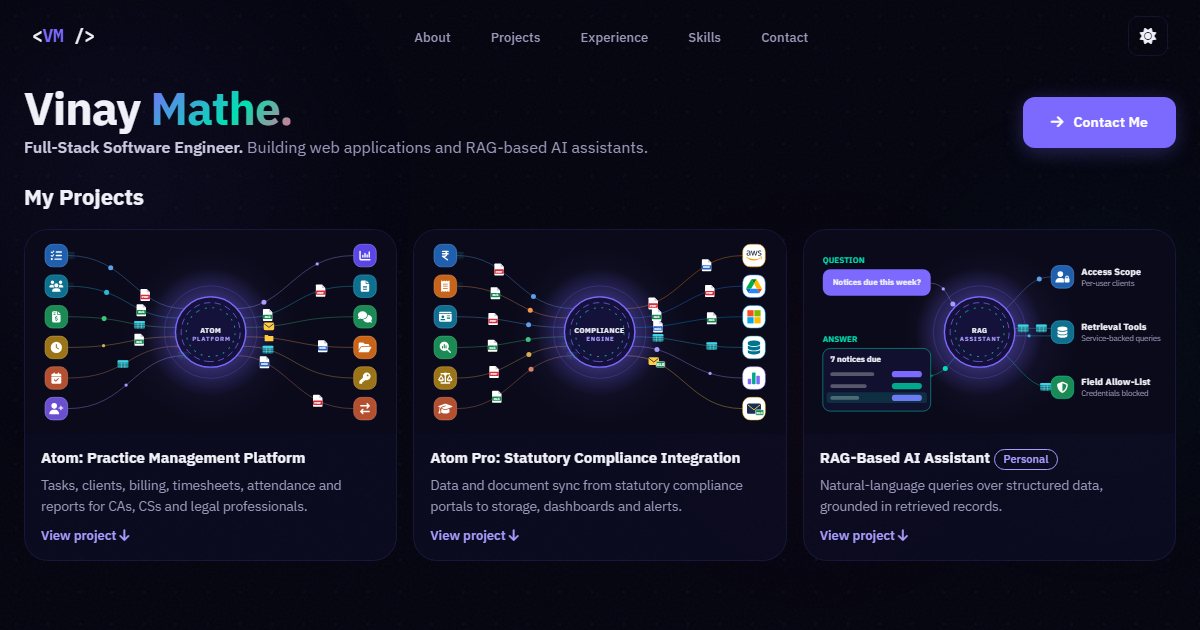
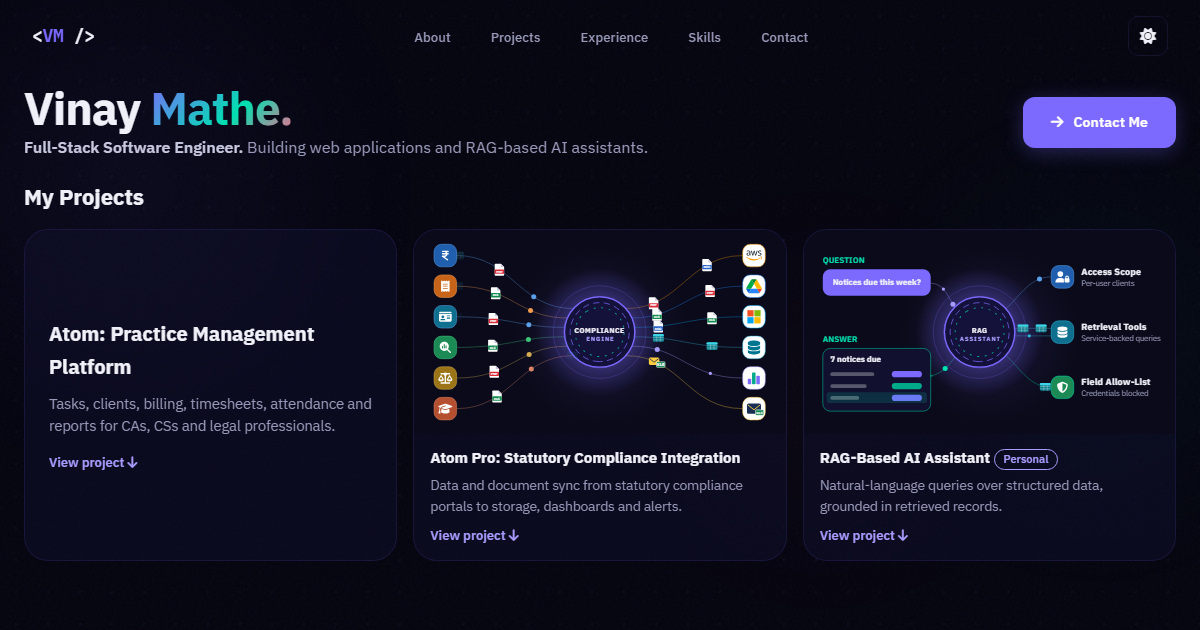
Remove Atom animation and show Atom as a text card

diff --git a/index.html b/index.html
@@ -17,10 +17,10 @@ try {
 <meta name="description" content="Vinay Mathe, Full-Stack Software Engineer building web applications and RAG-based AI assistants.">
 <meta property="og:type" content="website">
 <meta property="og:url" content="https://vinaym001.github.io/">
-<meta property="og:image" content="https://vinaym001.github.io/assets/og-preview.png?v=5">
+<meta property="og:image" content="https://vinaym001.github.io/assets/og-preview.png?v=6">
 <meta property="og:image:width" content="1200">
 <meta property="og:image:height" content="630">
-<meta property="og:image:alt" content="Vinay Mathe, Full-Stack Software Engineer, with small animations of three projects: Atom, Atom Pro and a RAG-based AI assistant">
+<meta property="og:image:alt" content="Vinay Mathe, Full-Stack Software Engineer, with cards for three projects: Atom, Atom Pro and a RAG-based AI assistant">
 <meta name="twitter:card" content="summary_large_image">
 <meta property="og:title" content="Vinay Mathe — Software Engineer">
 <meta property="og:description" content="Full-stack software engineer building web applications and RAG-based AI assistants.">
@@ -1469,6 +1469,11 @@ body::before {
 .showcase-name { font-size: 15px; }
 .showcase-link { margin-top: auto; padding-top: 4px; }
 .showcase-card .mini-svg { max-width: 620px; margin: 0 auto; }
+/* Atom has no animation, so its text sits in the middle of the card */
+.showcase-card--text .showcase-body { justify-content: center; gap: 10px; padding: 24px; }
+.showcase-card--text .showcase-name { font-size: 20px; }
+.showcase-card--text .showcase-desc { font-size: 14.5px; }
+.showcase-card--text .showcase-link { margin-top: 0; }
 /* The page already leaves 80px for the menu when jumping to a section */
 .project { scroll-margin-top: -36px; }
 .project:first-of-type { scroll-margin-top: 0; }
@@ -1527,8 +1532,7 @@ body::before {
     <div class="showcase">
       <h2 class="showcase-title">My Projects</h2>
       <div class="showcase-grid">
-        <a class="showcase-card" href="#project-atom">
-          <div class="flow-stage"><svg class="mini-svg" id="miniAtom" role="img" aria-label="Practice management modules connecting through the Atom platform to dashboards, reports, communication and storage"></svg></div>
+        <a class="showcase-card showcase-card--text" href="#project-atom">
           <div class="showcase-body">
             <div class="showcase-name">Atom: Practice Management Platform</div>
             <div class="showcase-desc">Tasks, clients, billing, timesheets, attendance and reports for CAs, CSs and legal professionals.</div>
@@ -1614,7 +1618,6 @@ body::before {
     <p class="section-desc reveal">Products I work on at Vider Business Solutions, and AI integration with RAG.</p>
 
     <article class="project" id="project-atom">
-    <div class="flow-stage"><svg class="mini-svg" id="atomStage" role="img" aria-label="Atom modules such as tasks, clients, billing, timesheets, attendance and leads connecting through the platform to dashboards, reports, communication, cloud storage, the DSC register and document tracking"></svg></div>
     <h3 class="project-title reveal">Atom: Practice Management Platform</h3>
     <p class="project-desc reveal">A SaaS practice management and compliance platform for CAs, CSs, CMAs and legal professionals across India. I work across the platform, on both frontend and backend.</p>
     <div class="rag-tech reveal">
@@ -2193,18 +2196,6 @@ document.querySelectorAll('.count-up').forEach(el => countObserver.observe(el));
     database: [448, 'M448 80v48c0 44.2-100.3 80-224 80S0 172.2 0 128V80C0 35.8 100.3 0 224 0S448 35.8 448 80zM393.2 214.7c20.8-7.4 39.9-16.9 54.8-28.6V288c0 44.2-100.3 80-224 80S0 332.2 0 288V186.1c14.9 11.8 34 21.2 54.8 28.6C99.7 230.7 159.5 240 224 240s124.3-9.3 169.2-25.3zM0 346.1c14.9 11.8 34 21.2 54.8 28.6C99.7 390.7 159.5 400 224 400s124.3-9.3 169.2-25.3c20.8-7.4 39.9-16.9 54.8-28.6V432c0 44.2-100.3 80-224 80S0 476.2 0 432V346.1z'],
     userLock: [640, 'M224 256A128 128 0 1 0 224 0a128 128 0 1 0 0 256zm-45.7 48C79.8 304 0 383.8 0 482.3C0 498.7 13.3 512 29.7 512H392.6c-5.4-9.4-8.6-20.3-8.6-32V352c0-2.1 .1-4.2 .3-6.3c-31-26-71-41.7-114.6-41.7H178.3zM528 240c17.7 0 32 14.3 32 32v48H496V272c0-17.7 14.3-32 32-32zm-80 32v48c-17.7 0-32 14.3-32 32V480c0 17.7 14.3 32 32 32H608c17.7 0 32-14.3 32-32V352c0-17.7-14.3-32-32-32V272c0-44.2-35.8-80-80-80s-80 35.8-80 80z'],
     shield: [512, 'M256 0c4.6 0 9.2 1 13.4 2.9L457.7 82.8c22 9.3 38.4 31 38.3 57.2c-.5 99.2-41.3 280.7-213.6 363.2c-16.7 8-36.1 8-52.8 0C57.3 420.7 16.5 239.2 16 140c-.1-26.2 16.3-47.9 38.3-57.2L242.7 2.9C246.8 1 251.4 0 256 0zm0 66.8V444.8C394 378 431.1 230.1 432 141.4L256 66.8l0 0z'],
-    tasks: [512, 'M152.1 38.2c9.9 8.9 10.7 24 1.8 33.9l-72 80c-4.4 4.9-10.6 7.8-17.2 7.9s-12.9-2.4-17.6-7L7 113C-2.3 103.6-2.3 88.4 7 79s24.6-9.4 33.9 0l22.1 22.1 55.1-61.2c8.9-9.9 24-10.7 33.9-1.8zm0 160c9.9 8.9 10.7 24 1.8 33.9l-72 80c-4.4 4.9-10.6 7.8-17.2 7.9s-12.9-2.4-17.6-7L7 273c-9.4-9.4-9.4-24.6 0-33.9s24.6-9.4 33.9 0l22.1 22.1 55.1-61.2c8.9-9.9 24-10.7 33.9-1.8zM224 96c0-17.7 14.3-32 32-32H480c17.7 0 32 14.3 32 32s-14.3 32-32 32H256c-17.7 0-32-14.3-32-32zm0 160c0-17.7 14.3-32 32-32H480c17.7 0 32 14.3 32 32s-14.3 32-32 32H256c-17.7 0-32-14.3-32-32zM160 416c0-17.7 14.3-32 32-32H480c17.7 0 32 14.3 32 32s-14.3 32-32 32H192c-17.7 0-32-14.3-32-32zM48 368a48 48 0 1 1 0 96 48 48 0 1 1 0-96z'],
-    users: [640, 'M144 0a80 80 0 1 1 0 160A80 80 0 1 1 144 0zM512 0a80 80 0 1 1 0 160A80 80 0 1 1 512 0zM0 298.7C0 239.8 47.8 192 106.7 192h42.7c15.9 0 31 3.5 44.6 9.7c-1.3 7.2-1.9 14.7-1.9 22.3c0 38.2 16.8 72.5 43.3 96c-.2 0-.4 0-.7 0H21.3C9.6 320 0 310.4 0 298.7zM405.3 320c-.2 0-.4 0-.7 0c26.6-23.5 43.3-57.8 43.3-96c0-7.6-.7-15-1.9-22.3c13.6-6.3 28.7-9.7 44.6-9.7h42.7C592.2 192 640 239.8 640 298.7c0 11.8-9.6 21.3-21.3 21.3H405.3zM224 224a96 96 0 1 1 192 0 96 96 0 1 1 -192 0zM128 485.3C128 411.7 187.7 352 261.3 352H378.7C452.3 352 512 411.7 512 485.3c0 14.7-11.9 26.7-26.7 26.7H154.7c-14.7 0-26.7-11.9-26.7-26.7z'],
-    invoice: [384, 'M64 0C28.7 0 0 28.7 0 64V448c0 35.3 28.7 64 64 64H320c35.3 0 64-28.7 64-64V160H256c-17.7 0-32-14.3-32-32V0H64zM256 0V128H384L256 0zM64 80c0-8.8 7.2-16 16-16h64c8.8 0 16 7.2 16 16s-7.2 16-16 16H80c-8.8 0-16-7.2-16-16zm0 64c0-8.8 7.2-16 16-16h64c8.8 0 16 7.2 16 16s-7.2 16-16 16H80c-8.8 0-16-7.2-16-16zm128 72c8.8 0 16 7.2 16 16v17.3c8.5 1.2 16.7 3.1 24.1 5.1c8.5 2.3 13.6 11 11.3 19.6s-11 13.6-19.6 11.3c-11.1-3-22-5.2-32.1-5.3c-8.4-.1-17.4 1.8-23.6 5.5c-5.7 3.4-8.1 7.3-8.1 12.8c0 3.7 1.3 6.5 7.3 10.1c6.9 4.1 16.6 7.1 29.2 10.9l.5 .1 0 0 0 0c11.3 3.4 25.3 7.6 36.3 14.6c12.1 7.6 22.4 19.7 22.7 38.2c.3 19.3-9.6 33.3-22.9 41.6c-7.7 4.8-16.4 7.6-25.1 9.1V440c0 8.8-7.2 16-16 16s-16-7.2-16-16V422.2c-11.2-2.1-21.7-5.7-30.9-8.9l0 0 0 0c-2.1-.7-4.2-1.4-6.2-2.1c-8.4-2.8-12.9-11.9-10.1-20.2s11.9-12.9 20.2-10.1c2.5 .8 4.8 1.6 7.1 2.4l0 0 0 0 0 0c13.6 4.6 24.6 8.4 36.3 8.7c9.1 .3 17.9-1.7 23.7-5.3c5.1-3.2 7.9-7.3 7.8-14c-.1-4.6-1.8-7.8-7.7-11.6c-6.8-4.3-16.5-7.4-29-11.2l-1.6-.5 0 0c-11-3.3-24.3-7.3-34.8-13.7c-12-7.2-22.6-18.9-22.7-37.3c-.1-19.4 10.8-32.8 23.8-40.5c7.5-4.4 15.8-7.2 24.1-8.7V232c0-8.8 7.2-16 16-16z'],
-    clock: [512, 'M256 0a256 256 0 1 1 0 512A256 256 0 1 1 256 0zM232 120V256c0 8 4 15.5 10.7 20l96 64c11 7.4 25.9 4.4 33.3-6.7s4.4-25.9-6.7-33.3L280 243.2V120c0-13.3-10.7-24-24-24s-24 10.7-24 24z'],
-    calendar: [448, 'M128 0c17.7 0 32 14.3 32 32V64H288V32c0-17.7 14.3-32 32-32s32 14.3 32 32V64h48c26.5 0 48 21.5 48 48v48H0V112C0 85.5 21.5 64 48 64H96V32c0-17.7 14.3-32 32-32zM0 192H448V464c0 26.5-21.5 48-48 48H48c-26.5 0-48-21.5-48-48V192zM329 305c9.4-9.4 9.4-24.6 0-33.9s-24.6-9.4-33.9 0l-95 95-47-47c-9.4-9.4-24.6-9.4-33.9 0s-9.4 24.6 0 33.9l64 64c9.4 9.4 24.6 9.4 33.9 0L329 305z'],
-    lead: [640, 'M96 128a128 128 0 1 1 256 0A128 128 0 1 1 96 128zM0 482.3C0 383.8 79.8 304 178.3 304h91.4C368.2 304 448 383.8 448 482.3c0 16.4-13.3 29.7-29.7 29.7H29.7C13.3 512 0 498.7 0 482.3zM504 312V248H440c-13.3 0-24-10.7-24-24s10.7-24 24-24h64V136c0-13.3 10.7-24 24-24s24 10.7 24 24v64h64c13.3 0 24 10.7 24 24s-10.7 24-24 24H552v64c0 13.3-10.7 24-24 24s-24-10.7-24-24z'],
-    chart: [512, 'M32 32c17.7 0 32 14.3 32 32V400c0 8.8 7.2 16 16 16H480c17.7 0 32 14.3 32 32s-14.3 32-32 32H80c-44.2 0-80-35.8-80-80V64C0 46.3 14.3 32 32 32zM160 224c17.7 0 32 14.3 32 32v64c0 17.7-14.3 32-32 32s-32-14.3-32-32V256c0-17.7 14.3-32 32-32zm128-64V320c0 17.7-14.3 32-32 32s-32-14.3-32-32V160c0-17.7 14.3-32 32-32s32 14.3 32 32zm64 32c17.7 0 32 14.3 32 32v96c0 17.7-14.3 32-32 32s-32-14.3-32-32V224c0-17.7 14.3-32 32-32zM480 96V320c0 17.7-14.3 32-32 32s-32-14.3-32-32V96c0-17.7 14.3-32 32-32s32 14.3 32 32z'],
-    report: [384, 'M64 0C28.7 0 0 28.7 0 64V448c0 35.3 28.7 64 64 64H320c35.3 0 64-28.7 64-64V160H256c-17.7 0-32-14.3-32-32V0H64zM256 0V128H384L256 0zM112 256H272c8.8 0 16 7.2 16 16s-7.2 16-16 16H112c-8.8 0-16-7.2-16-16s7.2-16 16-16zm0 64H272c8.8 0 16 7.2 16 16s-7.2 16-16 16H112c-8.8 0-16-7.2-16-16s7.2-16 16-16zm0 64H272c8.8 0 16 7.2 16 16s-7.2 16-16 16H112c-8.8 0-16-7.2-16-16s7.2-16 16-16z'],
-    message: [640, 'M208 352c114.9 0 208-78.8 208-176S322.9 0 208 0S0 78.8 0 176c0 38.6 14.7 74.3 39.6 103.4c-3.5 9.4-8.7 17.7-14.2 24.7c-4.8 6.2-9.7 11-13.3 14.3c-1.8 1.6-3.3 2.9-4.3 3.7c-.5 .4-.9 .7-1.1 .8l-.2 .2 0 0 0 0C1 327.2-1.4 334.4 .8 340.9S9.1 352 16 352c21.8 0 43.8-5.6 62.1-12.5c9.2-3.5 17.8-7.4 25.3-11.4C134.1 343.3 169.8 352 208 352zM448 176c0 112.3-99.1 196.9-216.5 207C255.8 457.4 336.4 512 432 512c38.2 0 73.9-8.7 104.7-23.9c7.5 4 16 7.9 25.2 11.4c18.3 6.9 40.3 12.5 62.1 12.5c6.9 0 13.1-4.5 15.2-11.1c2.1-6.6-.2-13.8-5.8-17.9l0 0 0 0-.2-.2c-.2-.2-.6-.4-1.1-.8c-1-.8-2.5-2-4.3-3.7c-3.6-3.3-8.5-8.1-13.3-14.3c-5.5-7-10.7-15.4-14.2-24.7c24.9-29 39.6-64.7 39.6-103.4c0-92.8-84.9-168.9-192.6-175.5c.4 5.1 .6 10.3 .6 15.5z'],
-    folder: [576, 'M88.7 223.8L0 375.8V96C0 60.7 28.7 32 64 32H181.5c17 0 33.3 6.7 45.3 18.7l26.5 26.5c12 12 28.3 18.7 45.3 18.7H416c35.3 0 64 28.7 64 64v32H144c-22.8 0-43.8 12.1-55.3 31.8zm27.6 16.1C122.1 230 132.6 224 144 224H544c11.5 0 22 6.1 27.7 16.1s5.7 22.2-.1 32.1l-112 192C453.9 474 443.4 480 432 480H32c-11.5 0-22-6.1-27.7-16.1s-5.7-22.2 .1-32.1l112-192z'],
-    key: [512, 'M336 352c97.2 0 176-78.8 176-176S433.2 0 336 0S160 78.8 160 176c0 18.7 2.9 36.8 8.3 53.7L7 391c-4.5 4.5-7 10.6-7 17v80c0 13.3 10.7 24 24 24h80c13.3 0 24-10.7 24-24V448h40c13.3 0 24-10.7 24-24V384h40c6.4 0 12.5-2.5 17-7l33.3-33.3c16.9 5.4 35 8.3 53.7 8.3zM376 96a40 40 0 1 1 0 80 40 40 0 1 1 0-80z'],
-    exchange: [448, 'M438.6 150.6c12.5-12.5 12.5-32.8 0-45.3l-96-96c-12.5-12.5-32.8-12.5-45.3 0s-12.5 32.8 0 45.3L338.7 96 32 96C14.3 96 0 110.3 0 128s14.3 32 32 32l306.7 0-41.4 41.4c-12.5 12.5-12.5 32.8 0 45.3s32.8 12.5 45.3 0l96-96zm-333.3 352c12.5 12.5 32.8 12.5 45.3 0s12.5-32.8 0-45.3L109.3 416 416 416c17.7 0 32-14.3 32-32s-14.3-32-32-32l-306.7 0 41.4-41.4c12.5-12.5 12.5-32.8 0-45.3s-32.8-12.5-45.3 0l-96 96c-12.5 12.5-12.5 32.8 0 45.3l96 96z'],
     folderTree: [576, 'M64 32C64 14.3 49.7 0 32 0S0 14.3 0 32v96V384c0 35.3 28.7 64 64 64H256V384H64V160H256V96H64V32zM288 192c0 17.7 14.3 32 32 32H544c17.7 0 32-14.3 32-32V64c0-17.7-14.3-32-32-32H445.3c-8.5 0-16.6-3.4-22.6-9.4L409.4 9.4c-6-6-14.1-9.4-22.6-9.4H320c-17.7 0-32 14.3-32 32V192zm0 288c0 17.7 14.3 32 32 32H544c17.7 0 32-14.3 32-32V352c0-17.7-14.3-32-32-32H445.3c-8.5 0-16.6-3.4-22.6-9.4l-13.3-13.3c-6-6-14.1-9.4-22.6-9.4H320c-17.7 0-32 14.3-32 32V480z'],
   };
   const DRIVE_PATHS = [
@@ -2505,8 +2496,6 @@ document.querySelectorAll('.count-up').forEach(el => countObserver.observe(el));
       const t = el('text', { x: half + 12, y: n.sub ? -3 : 5, class: 'fs-name' }, g, n.name);
       if (n.count) el('tspan', { dx: 8, class: 'fs-count' }, t, `${n.count} services`);
       if (n.sub) el('text', { x: half + 12, y: 14, class: 'fs-sub' }, g, n.sub);
-    } else if (n.label === 'left') {
-      el('text', { x: -half - 12, y: 5, 'text-anchor': 'end', class: 'fs-name' }, g, n.name);
     } else if (n.label === 'below') {
       el('text', { x: 0, y: half + 18, 'text-anchor': 'middle', class: 'fs-name fs-halo' }, g, n.name);
       if (n.sub) el('text', { x: 0, y: half + 33, 'text-anchor': 'middle', class: 'fs-sub fs-halo' }, g, n.sub);
@@ -2773,53 +2762,8 @@ document.querySelectorAll('.count-up').forEach(el => countObserver.observe(el));
     });
   }
 
-  // Same flow at two sizes: tiles only in the card, labelled inside the Atom project
-  function renderAtom(id, prefix, labelled, still) {
-    const target = document.getElementById(id);
-    if (!target) return;
-    const big = labelled && !narrow.matches;
-    const box = big ? { w: 900, h: 390, r: 72, tile: 44, gap: 62, top: 40, tileL: 40, tileR: 860, lineL: 208, lineR: 678, spread: 22 }
-      : { w: 560, h: 300, r: 56, tile: 36, gap: 48.8, top: 28, tileL: 34, tileR: 526, lineL: 52, lineR: 508, spread: 15 };
-    const hub = { x: box.w / 2, y: box.h / 2, r: box.r };
-    const edge = (dy) => Math.sqrt(hub.r * hub.r - dy * dy);
-    const modules = [
-      { name: 'Tasks & Services', icon: ICONS.tasks, tile: '#1f5fae', color: '#5b9fe8', items: ['rec', 'dot', 'pdf'] },
-      { name: 'Clients', icon: ICONS.users, tile: '#0f6f8f', color: '#2fb6d6', items: ['rec', 'dot', 'xls'] },
-      { name: 'Billing', icon: ICONS.invoice, tile: '#1c8a55', color: '#3ec47a', items: ['pdf', 'dot', 'rec'] },
-      { name: 'Timesheets', icon: ICONS.clock, tile: '#9a7416', color: '#d6ad52', items: ['rec', 'dot2', 'xls'] },
-      { name: 'Attendance', icon: ICONS.calendar, tile: '#b4502f', color: '#d98468', items: ['dot', 'rec'] },
-      { name: 'Leads', icon: ICONS.lead, tile: '#6a4fd1', color: '#a99cff', items: ['rec', 'dot2'] },
-    ];
-    const outputs = [
-      { name: 'Dashboards', icon: ICONS.chart, tile: '#5a46e6', color: '#a99cff', items: ['dot', 'dot2'] },
-      { name: 'Reports', icon: ICONS.report, tile: '#0f6f8f', color: '#2fb6d6', items: ['xls', 'pdf'] },
-      { name: 'Email & WhatsApp', icon: ICONS.message, tile: '#1c8a55', color: '#3ec47a', items: ['mail'] },
-      { name: 'Cloud Storage', icon: ICONS.folder, tile: '#c7641a', color: '#f09a4f', items: ['folder', 'doc'] },
-      { name: 'DSC Register', icon: ICONS.key, tile: '#9a7416', color: '#d6ad52', items: ['rec'] },
-      { name: 'Document In/Out', icon: ICONS.exchange, tile: '#b4502f', color: '#d98468', items: ['doc', 'pdf'] },
-    ];
-    const paths = [];
-    const nodes = [];
-    modules.forEach((m, i) => {
-      const y = box.top + i * box.gap;
-      const dy = (i - 2.5) * box.spread;
-      nodes.push({ ...m, x: box.tileL, y, size: box.tile, label: big ? 'right' : 'none' });
-      paths.push({ d: `M${box.lineL} ${y}C${box.lineL + 95} ${y} ${hub.x - edge(dy) - 80} ${hub.y + dy} ${hub.x - edge(dy)} ${hub.y + dy}`, color: m.color, i, mini: { dur: 6 + i * 0.4, items: m.items } });
-    });
-    outputs.forEach((o, i) => {
-      const y = box.top + i * box.gap;
-      const dy = (i - 2.5) * box.spread;
-      nodes.push({ ...o, x: box.tileR, y, size: box.tile, label: big ? 'left' : 'none' });
-      paths.push({ d: `M${hub.x + edge(dy)} ${hub.y + dy}C${hub.x + edge(dy) + 80} ${hub.y + dy} ${box.lineR - 95} ${y} ${box.lineR} ${y}`, color: o.color, i, mini: { dur: 5 + i * 0.3, items: o.items } });
-    });
-    drawMini(target, prefix, hub, 'ATOM', 'PLATFORM', paths, nodes, still);
-    target.setAttribute('viewBox', `0 0 ${box.w} ${box.h}`);
-  }
-
   function renderAll() {
     render();
-    renderAtom('miniAtom', 'fsMiniAtom', false, reduced.matches);
-    renderAtom('atomStage', 'fsAtomStage', true, reduced.matches);
     renderMiniFlow(reduced.matches);
     renderMiniRag(reduced.matches);
   }
@@ -2828,7 +2772,7 @@ document.querySelectorAll('.count-up').forEach(el => countObserver.observe(el));
   narrow.addEventListener('change', renderAll);
   reduced.addEventListener('change', renderAll);
 
-  ['miniAtom', 'atomStage', 'miniFlow', 'miniRag'].forEach((id) => {
+  ['miniFlow', 'miniRag'].forEach((id) => {
     const mini = document.getElementById(id);
     if (!mini) return;
     new IntersectionObserver(([entry]) => {
